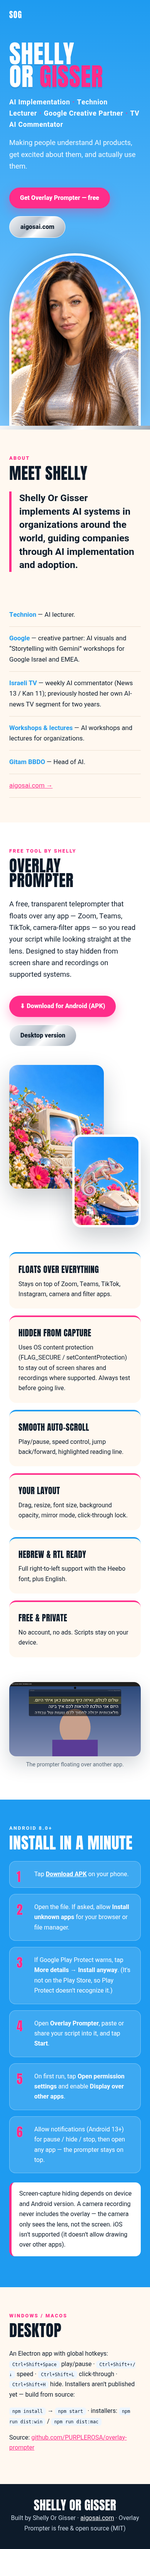
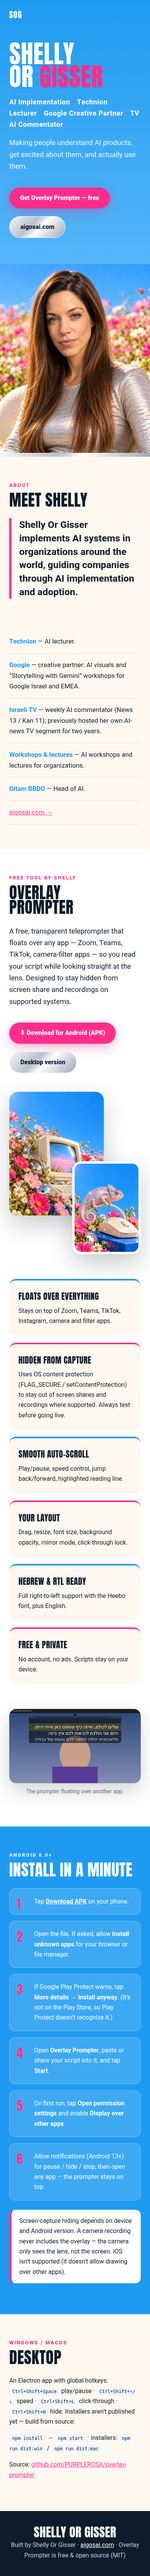
Hero: full uncropped portrait, no arch frame; editorial layout

Changed region(s): [[0.0, 0.0312, 1.0, 1.0], [0.6769, 0.9688, 0.7077, 1.0]]

diff --git a/docs/index.html b/docs/index.html
@@ -12,15 +12,15 @@ a{color:var(--pink)}img{display:block;max-width:100%}.w{max-width:1160px;margin:
 nav{position:absolute;top:0;left:0;right:0;z-index:5}nav .w{display:flex;justify-content:space-between;align-items:center;padding-top:22px}
 nav .logo{font-family:Anton;font-size:1.3rem;color:#fff;letter-spacing:.06em}nav a.l{color:#fff;text-decoration:none;margin-left:22px;font-weight:600;font-size:.95rem}
 .hero{background:linear-gradient(180deg,var(--sky) 0,var(--sky2) 100%);color:#fff;overflow:hidden;position:relative}
-.hero .w{display:grid;grid-template-columns:1.15fr .85fr;gap:30px;align-items:end;min-height:720px;padding-top:110px}
+.hero .w{display:grid;grid-template-columns:1.1fr .9fr;gap:48px;align-items:center;min-height:720px;padding-top:110px}
 .hero h1{font-size:clamp(4rem,10vw,9.5rem);margin:0;color:#fff;text-shadow:0 4px 0 rgba(13,27,42,.08)}
 .hero h1 span{color:var(--pink)}
 .roles{font-weight:700;font-size:1.1rem;letter-spacing:.04em;margin:22px 0 8px}.roles i{color:var(--pink);font-style:normal;padding:0 6px}
 .hero p.lead{font-size:1.15rem;max-width:560px;opacity:.95}
 .btn{display:inline-block;padding:14px 28px;border-radius:999px;font-weight:800;text-decoration:none;margin:20px 12px 0 0;transition:transform .15s}.btn:hover{transform:translateY(-2px)}
 .btn.p{background:var(--pink);color:#fff;box-shadow:0 10px 28px rgba(255,45,138,.35)}.btn.c{background:var(--chrome);color:var(--ink);border:1px solid #fff}
-.hero .txt{padding-bottom:90px}.portrait{border-radius:220px 220px 0 0;overflow:hidden;border:6px solid #fff;border-bottom:0;box-shadow:0 -10px 60px rgba(13,27,42,.2)}
-.portrait img{width:100%;height:600px;object-fit:cover;object-position:center top}
+.hero .txt{padding-bottom:90px}.portrait{margin-bottom:60px;box-shadow:0 30px 70px rgba(13,27,42,.28)}
+.portrait img{width:100%;height:auto}
 .chrome-bar{height:10px;background:var(--chrome)}
 section{padding:96px 0}.eyebrow{font-weight:800;letter-spacing:.18em;font-size:.8rem;color:var(--pink);text-transform:uppercase}
 h2{font-size:clamp(2.6rem,6vw,4.6rem);margin:8px 0 28px}
@@ -42,7 +42,7 @@ h2{font-size:clamp(2.6rem,6vw,4.6rem);margin:8px 0 28px}
 code{background:#eef6ff;padding:3px 8px;border-radius:6px;font-size:.92em}
 footer{background:var(--ink);color:#c9d6e3;padding:40px 0;text-align:center}footer a{color:#fff}footer .disp{font-size:2rem;color:#fff;margin-bottom:6px}
 @media(max-width:860px){nav a.l{display:none}.hero .w,.about .w,.prod-hero{grid-template-columns:1fr}.hero .w{min-height:0}.hero .txt{padding-bottom:10px}
-.portrait img{height:440px}.feat{grid-template-columns:1fr}.stack{height:420px}.stack .a{height:320px}.stack .b{height:240px}section{padding:64px 0}}
+.portrait{margin:10px -24px 0;box-shadow:none}.feat{grid-template-columns:1fr}.stack{height:420px}.stack .a{height:320px}.stack .b{height:240px}section{padding:64px 0}}
 </style></head><body>
 <nav><div class="w"><span class="logo">SOG</span><span><a class="l" href="#about">About</a><a class="l" href="#prompter">Overlay Prompter</a><a class="l" href="#install">Install</a><a class="l" href="https://aigosai.com">aigosai.com</a></span></div></nav>
 <header class="hero"><div class="w"><div class="txt">
